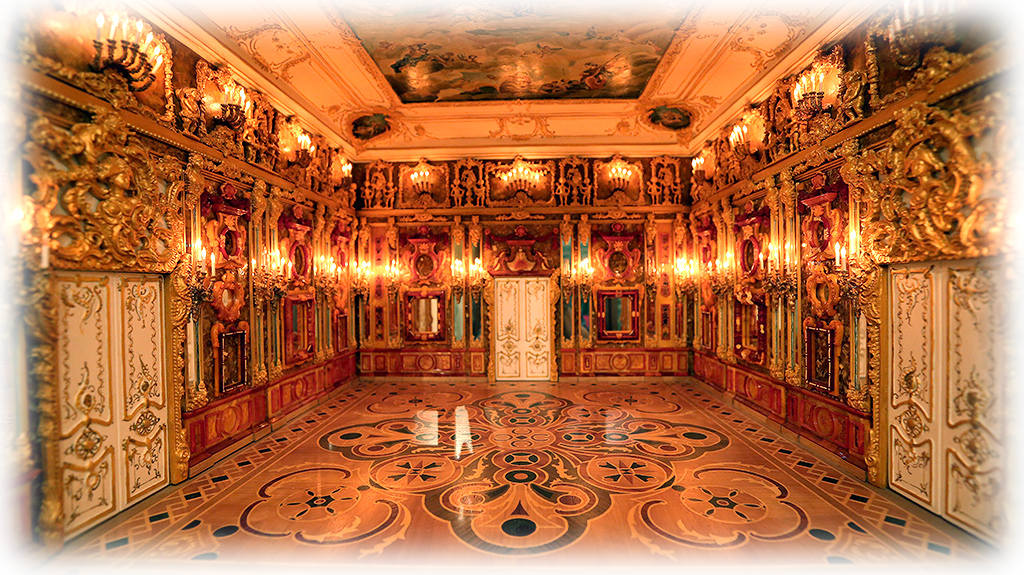
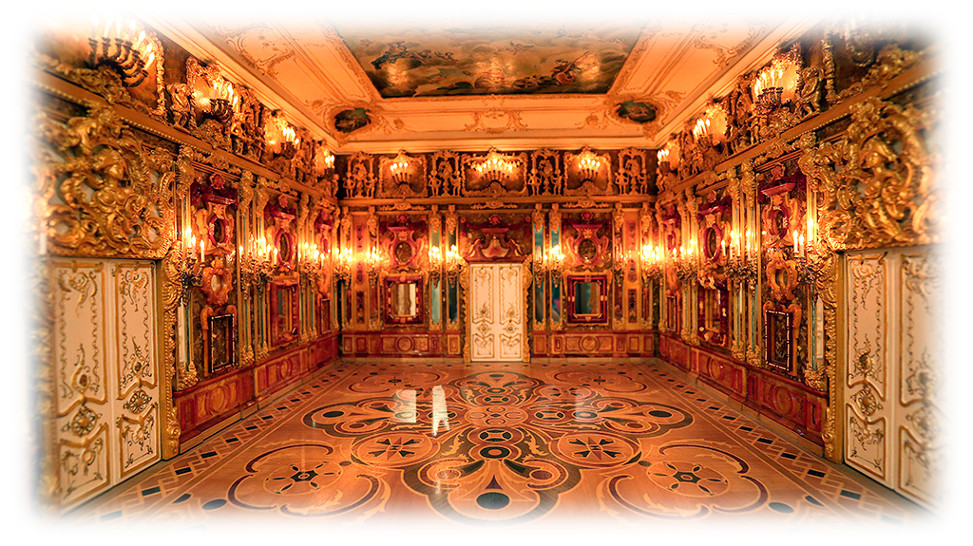
Optymized img

diff --git a/index.html b/index.html
@@ -24,7 +24,7 @@
             <div class="col-12">
                 <div class="featured-img">
                     <figure>
-                        <img src="images/main.png" alt="">
+                        <img src="images/main.jpg" alt="">
                     </figure>
                 </div><!-- .content-area -->
             </div><!-- .col-12 -->
